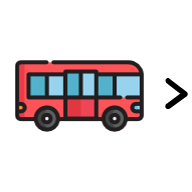
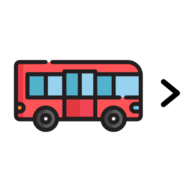
dodal nove ikonice buskov, združil ajax db buses-on-route

diff --git a/index.js b/index.js
@@ -27,15 +27,36 @@ app.use(bodyParser.urlencoded({ extended: true }));
 
 const ROUTES = JSON.parse(fs.readFileSync('db/routes.json'));
 const STATIONS = JSON.parse(fs.readFileSync('db/station_locations.json'));
+let BUS_DATA = []; // bus data with driver ids; has to be updated whenever /zemljevid or / is launched
 
 const DB = {
   drivers: new Datastore({ filename: 'db/drivers.db', autoload: true, timestampData: true }),
   buses: new Datastore({ filename: 'db/buses.db', autoload: true, timestampData: true }),
 };
 
+async function refreshBusData() {
+  // TODO: cache LPP data ...
+  // TODO: izberi samo določene spremenljivke (createdAt ipd. daj ven).
+
+  const lpp_data = await fetchLPP('https://data.lpp.si/api/bus/bus-details');
+  const db_bus_data = await DB.buses.findAsync({});
+  const db_driver_data = await DB.drivers.findAsync({});
+
+  BUS_DATA = lpp_data.data.map((bus_entry) => {
+    const db_driver = db_driver_data.find((d) => d.driver_id === bus_entry.driver_id) || {};
+    const db_bus = db_bus_data.find((d) => d.bus_id === bus_entry.bus_unit_id) || {};
+    const user_edited = !!Object.keys({ ...db_driver, ...db_bus }).length;
+
+    return { ...bus_entry, ...db_driver, ...db_bus, user_edited };
+  });
+}
+
+refreshBusData();
+
 // --- ROUTES
 
 app.get('/', (req, res) => {
+  refreshBusData();
   return res.render('iskanje');
 });
 
@@ -47,14 +68,9 @@ app.get('/zemljevid', (req, res) => {
 
 app.get('/objavi', async (req, res) => {
   const { bus_id, driver_id } = req.query;
-  console.log(req.query);
 
   const db_driver_data = (await DB.drivers.findOneAsync({ driver_id })) || {};
   const db_bus_data = (await DB.buses.findOneAsync({ bus_id })) || {};
-
-  // if (!bus_id && !driver_id) {
-  //   return res.redirect('/');
-  // }
 
   res.render('objavi', {
     bus_id,
@@ -67,23 +83,25 @@ app.get('/objavi', async (req, res) => {
 });
 
 app.post('/objavi', async (req, res) => {
+  // TODO: če izbrišeš polja, se ne shranijo!
   const { bus_id, bus_description, driver_id, driver_description, driver_nickname, driver_rating, author } = req.body;
-  console.log('+' + bus_id + '+');
+  console.log(req.body);
 
   // update bus data
   if (bus_description) {
-    const res1 = await DB.buses.updateAsync({ bus_id }, { bus_id, bus_description, author }, { upsert: true });
+    await DB.buses.updateAsync({ bus_id }, { bus_id, bus_description, author }, { upsert: true });
   }
 
   // update driver data
   if (driver_description || driver_nickname || driver_rating) {
-    const res2 = await DB.drivers.updateAsync(
+    await DB.drivers.updateAsync(
       { driver_id },
       { driver_id, driver_description, driver_nickname, driver_rating, author },
       { upsert: true }
     );
   }
 
+  await refreshBusData();
   res.redirect(req.query.from_url);
 });
 
@@ -145,51 +163,59 @@ app.get('/api/bus/buses-on-route/', async (req, res) => {
   const route_name = ROUTES.find((r) => r.trip_id === trip_id)?.route_number;
 
   // get bus data
-  const data = await fetchLPP('https://data.lpp.si/api/bus/buses-on-route?specific=1&route-group-number=' + route_name);
+  const bus_data = await fetchLPP(
+    'https://data.lpp.si/api/bus/buses-on-route?specific=1&route-group-number=' + route_name
+  );
 
-  if (data.success) {
-    const tripBuses = data.data.filter((bus) => bus.trip_id === trip_id);
+  if (bus_data.success) {
+    const tripBuses = bus_data.data
+      .filter((bus) => bus.trip_id === trip_id)
+      .map((bus) => {
+        const cachedData = BUS_DATA.find((b) => b.bus_unit_id === bus.bus_unit_id);
+        return { ...cachedData, ...bus }; // TODO: samo določene parametre ...
+      });
+
     res.json(tripBuses);
   } else {
     res.status(400).json({ success: false });
   }
 });
 
-app.get('/api/bus/bus-details/', async (req, res) => {
-  const bus_id = req.query.bus_id;
+// app.get('/api/bus/bus-details/', async (req, res) => {
+//   const bus_id = req.query.bus_id;
 
-  const data = await fetchLPP('https://data.lpp.si/api/bus/bus-details?&bus-id=' + bus_id);
+//   const data = await fetchLPP('https://data.lpp.si/api/bus/bus-details?&bus-id=' + bus_id);
 
-  // pridobi svoje podatke in jih zzdruži z ibzbranini podatki lpp.
+//   // pridobi svoje podatke in jih združi z ibzbranini podatki lpp.
 
-  if (data.success) {
-    const d = data.data?.[0] || {};
+//   if (data.success) {
+//     const d = data.data?.[0] || {};
 
-    console.log(d);
+//     console.log(d);
 
-    const db_driver_data = (await DB.drivers.findOneAsync({ driver_id: d.driver_id })) || {};
-    const db_bus_data = (await DB.buses.findOneAsync({ bus_id: d.bus_unit_id })) || {};
+//     const db_driver_data = (await DB.drivers.findOneAsync({ driver_id: d.driver_id })) || {};
+//     const db_bus_data = (await DB.buses.findOneAsync({ bus_id: d.bus_unit_id })) || {};
 
-    const response_data = {
-      bus_unit_id: d.bus_unit_id,
-      bus_name: d.name,
-      odo: d.odo,
-      driver_id: d.driver_id,
+//     const response_data = {
+//       bus_unit_id: d.bus_unit_id,
+//       bus_name: d.name,
+//       odo: d.odo,
+//       driver_id: d.driver_id,
 
-      bus_description: db_bus_data.bus_description,
-      driver_description: db_driver_data.driver_description,
-      driver_nickname: db_driver_data.driver_nickname,
-      driver_rating: db_driver_data.driver_rating,
-    };
+//       bus_description: db_bus_data.bus_description,
+//       driver_description: db_driver_data.driver_description,
+//       driver_nickname: db_driver_data.driver_nickname,
+//       driver_rating: db_driver_data.driver_rating,
+//     };
 
-    console.log(db_bus_data);
-    console.log(response_data);
+//     console.log(db_bus_data);
+//     console.log(response_data);
 
-    res.json(response_data);
-  } else {
-    res.status(400).json({ success: false });
-  }
-});
+//     res.json(response_data);
+//   } else {
+//     res.status(400).json({ success: false });
+//   }
+// });
 
 // --- ERRORS
 

diff --git a/public/js/zemljevid.js b/public/js/zemljevid.js
@@ -79,25 +79,15 @@ const Main = {
       const latLng = [bus.latitude, bus.longitude];
 
       if (this.busMarkers[bus.bus_name]) {
-        // premakni
-        this.busMarkers[bus.bus_name].setLatLng(latLng);
-        // this.busMarkers[bus].setIcon(
-        //   L.divIcon({
-        //     className: 'icon-active',
-        //     iconSize: [25, 25],
-        //     iconAnchor: [13, 13],
-        //     popupAnchor: [0, 0],
-        //     html: `<p class="icon">${busObject[i].line_number ? busObject[i].line_number : '⬤'}</p>
-        //             <img class="icon-pointer" style="transform: rotate(${
-        //               busObject[i].direction + 225
-        //             }deg)" src="img/ico/rotIcoActive.svg"/>`,
-        //   })
-        // );
+        // spremeni busek
+        this.busMarkers[bus.bus_name].setLatLng(latLng); // premakni
+        // this.busMarkers[bus.bus_name].setIcon(this.determineBusIcon(bus));
       } else {
+        // nova ikonica
         this.busMarkers[bus.bus_name] = L.marker(latLng, {
           rotationOrigin: 'center center',
           title: bus.bus_name,
-          icon: Icons.bus,
+          icon: this.determineBusIcon(bus),
         })
           .addTo(this.map)
           .on('click', () => this.openInfo(bus));
@@ -128,37 +118,31 @@ const Main = {
   async openInfo(bus_data) {
     console.log(bus_data);
 
-    $('#editData').classList.add('disabled');
-
     // populate data
     $('.bus-info-container .route .content').innerText = `${bus_data.route_number}) ${bus_data.route_name}`;
     $('.bus-info-container .direction .content').innerText = bus_data.destination;
     $('.bus-info-container .bus .registration .content').innerText = bus_data.bus_name;
-    $('.bus-info-container .bus .description .content').innerText = 'nalaganje ...';
-    $('.bus-info-container .driver .nickname .content').innerText = 'nalaganje ...';
-    $('.bus-info-container .driver .rating .content').innerText = 'nalaganje ...';
-    $('.bus-info-container .driver .description .content').innerText = 'nalaganje ...';
+
+    $('.bus-info-container .bus .description .content').innerText = bus_data.bus_description || 'Ni podatkov.';
+    $('.bus-info-container .driver .nickname .content').innerText = bus_data.driver_nickname || 'Ni podatkov.';
+    $('.bus-info-container .driver .rating .content').innerText = bus_data.driver_rating || 'Ni podatkov.';
+    $('.bus-info-container .driver .description .content').innerText = bus_data.driver_description || 'Ni podatkov.';
+
+    // prettier-ignore
+    $('#editData').href = `objavi?bus_id=${bus_data.bus_unit_id}&driver_id=${bus_data.driver_id}&from_url=${encodeURIComponent(location.href)}`;
 
     $('.bus-info-container').classList.add('open');
-
-    // load info from db
-    const r = await fetch('api/bus/bus-details?bus_id=' + bus_data.bus_unit_id); // db in lpp data
-    const bus_details = await r.json();
-    console.log(bus_details);
-
-    $('.bus-info-container .bus .description .content').innerText = bus_details.bus_description || 'ni podatkov.';
-    $('.bus-info-container .driver .nickname .content').innerText = bus_details.driver_nickname || 'ni podatkov.';
-    $('.bus-info-container .driver .rating .content').innerText = bus_details.driver_rating || 'ni podatkov.';
-    $('.bus-info-container .driver .description .content').innerText = bus_details.driver_description || 'ni podatkov.';
-
-    $('#editData').href = `objavi?bus_id=${bus_data.bus_unit_id}&driver_id=${
-      bus_details.driver_id
-    }&from_url=${encodeURIComponent(location.href)}`;
-    $('#editData').classList.remove('disabled');
   },
 
   closeInfo() {
     $('.bus-info-container').classList.remove('open');
+  },
+
+  determineBusIcon(bus_data) {
+    if (!bus_data.user_edited) return Icons.bus;
+
+    if (bus_data.driver_rating && parseInt(bus_data.driver_rating) < 3) return Icons.bus_bad_rating;
+    return Icons.bus_user_edited;
   },
 };
 
@@ -169,10 +153,18 @@ const Icons = {
     iconUrl: 'public/img/busek_arrow.png',
     iconSize: [48, 48],
   }),
+  bus_user_edited: L.icon({
+    iconUrl: 'public/img/busek_arrow_user-edited.png',
+    iconSize: [48, 48],
+  }),
+  bus_bad_rating: L.icon({
+    iconUrl: 'public/img/busek_arrow_bad-rating.png',
+    iconSize: [48, 48],
+  }),
   station: L.icon({
     iconUrl: 'public/img/postaja.png',
-    iconSize: [32, 32],
-    iconAnchor: [16, 32],
+    iconSize: [28, 28],
+    iconAnchor: [14, 28],
   }),
 };
 

diff --git a/public/css/zemljevid.css b/public/css/zemljevid.css
@@ -1,1 +1,1 @@
-html,body,button{font-family:Helvetica,Arial,sans-serif;font-size:15px}#mapContainer{height:100%;width:100%;position:relative}#mapContainer #map{outline:none;width:100%;height:100%}.leaflet-control-attribution{display:none}.back-button{position:fixed;top:10px;left:10px;z-index:999;cursor:pointer}.data-age-container{position:fixed;bottom:10px;left:10px;z-index:999;background:rgba(255,255,255,.8)}.bus-info-container{z-index:9999;position:fixed;top:0;left:0;width:100%;height:100%;font-size:13px;font-family:Menlo,monospace;display:none}.bus-info-container.open{display:block}.bus-info-container .bg{position:relative;background:rgba(0,0,0,.8);height:100%;display:flex;flex-direction:column;padding:20px;padding-bottom:max(20px,env(safe-area-inset-bottom, 0px))}.bus-info-container .bg #closeBtn{color:#eee;align-self:flex-end;cursor:pointer;text-decoration:underline}.bus-info-container .bg #textBox{padding:0 15px;margin-top:25px;flex-grow:1;color:#eee}.bus-info-container .bg #textBox ul{margin:0;padding:0 20px;line-height:1.8}.bus-info-container .bg #textBox span.title{font-weight:bold}.bus-info-container .bg #textBox span.content{color:#aaa}.bus-info-container .bg #editData{color:#eee;align-self:flex-end;text-decoration:underline}.bus-info-container .bg #editData.disabled{opacity:.3;pointer-events:none;text-decoration:none}
+html,body,button{font-family:Helvetica,Arial,sans-serif;font-size:15px}#mapContainer{height:100%;width:100%;position:relative}#mapContainer #map{outline:none;width:100%;height:100%}.leaflet-control-attribution{display:none}.leaflet-control-locate{margin:15px !important}.back-button{position:fixed;top:15px;left:15px;z-index:999;cursor:pointer}.data-age-container{position:fixed;bottom:15px;left:15px;z-index:999;background:rgba(255,255,255,.8)}.bus-info-container{z-index:9999;position:fixed;top:0;left:0;width:100%;height:100%;font-size:13px;font-family:Menlo,monospace;display:none}.bus-info-container.open{display:block}.bus-info-container .bg{position:relative;background:rgba(0,0,0,.8);height:100%;display:flex;flex-direction:column;padding:20px;padding-bottom:max(20px,env(safe-area-inset-bottom, 0px))}.bus-info-container .bg #closeBtn{color:#eee;align-self:flex-end;cursor:pointer;text-decoration:underline}.bus-info-container .bg #textBox{padding:0 15px;margin-top:25px;flex-grow:1;color:#eee}.bus-info-container .bg #textBox ul{margin:0;padding:0 20px;line-height:1.8}.bus-info-container .bg #textBox span.title{font-weight:bold}.bus-info-container .bg #textBox span.content{color:#aaa}.bus-info-container .bg #editData{color:#eee;align-self:flex-end;text-decoration:underline}.bus-info-container .bg #editData.disabled{opacity:.3;pointer-events:none;text-decoration:none}

diff --git a/public/css/zemljevid.scss b/public/css/zemljevid.scss
@@ -27,10 +27,14 @@ body, button {
   display: none;
 }
 
+.leaflet-control-locate {
+  margin: 15px !important;
+}
+
 .back-button {
   position: fixed;
-  top: 10px;
-  left: 10px;
+  top: 15px;
+  left: 15px;
   z-index: 999;
   // font-size: 13px;
   cursor: pointer;
@@ -38,8 +42,8 @@ body, button {
 
 .data-age-container {
   position: fixed;
-  bottom: 10px;
-  left: 10px;
+  bottom: 15px;
+  left: 15px;
   z-index: 999;
   background: #ffffffcc;
 }
